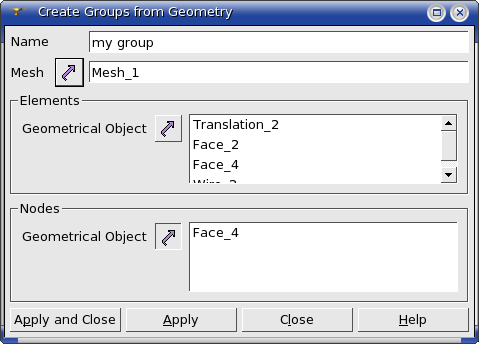
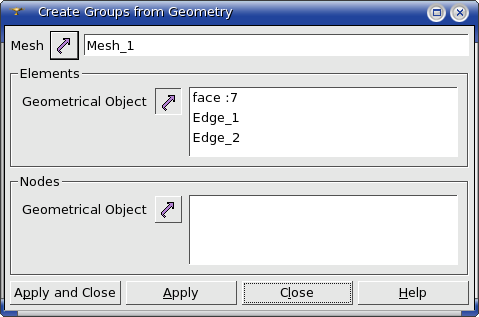
0019970: create groups automatically     remove "Name" lineEdit

diff --git a/src/SMESHGUI/SMESHGUI_GroupOnShapeDlg.h b/src/SMESHGUI/SMESHGUI_GroupOnShapeDlg.h
@@ -123,7 +123,7 @@ public slots:
 
 private:
 
-  QLineEdit*                    myGrpNameLine;
+  //QLineEdit*                    myGrpNameLine;
 
   QPushButton*                  myMeshBtn;
   QLineEdit*                    myMeshLine;
